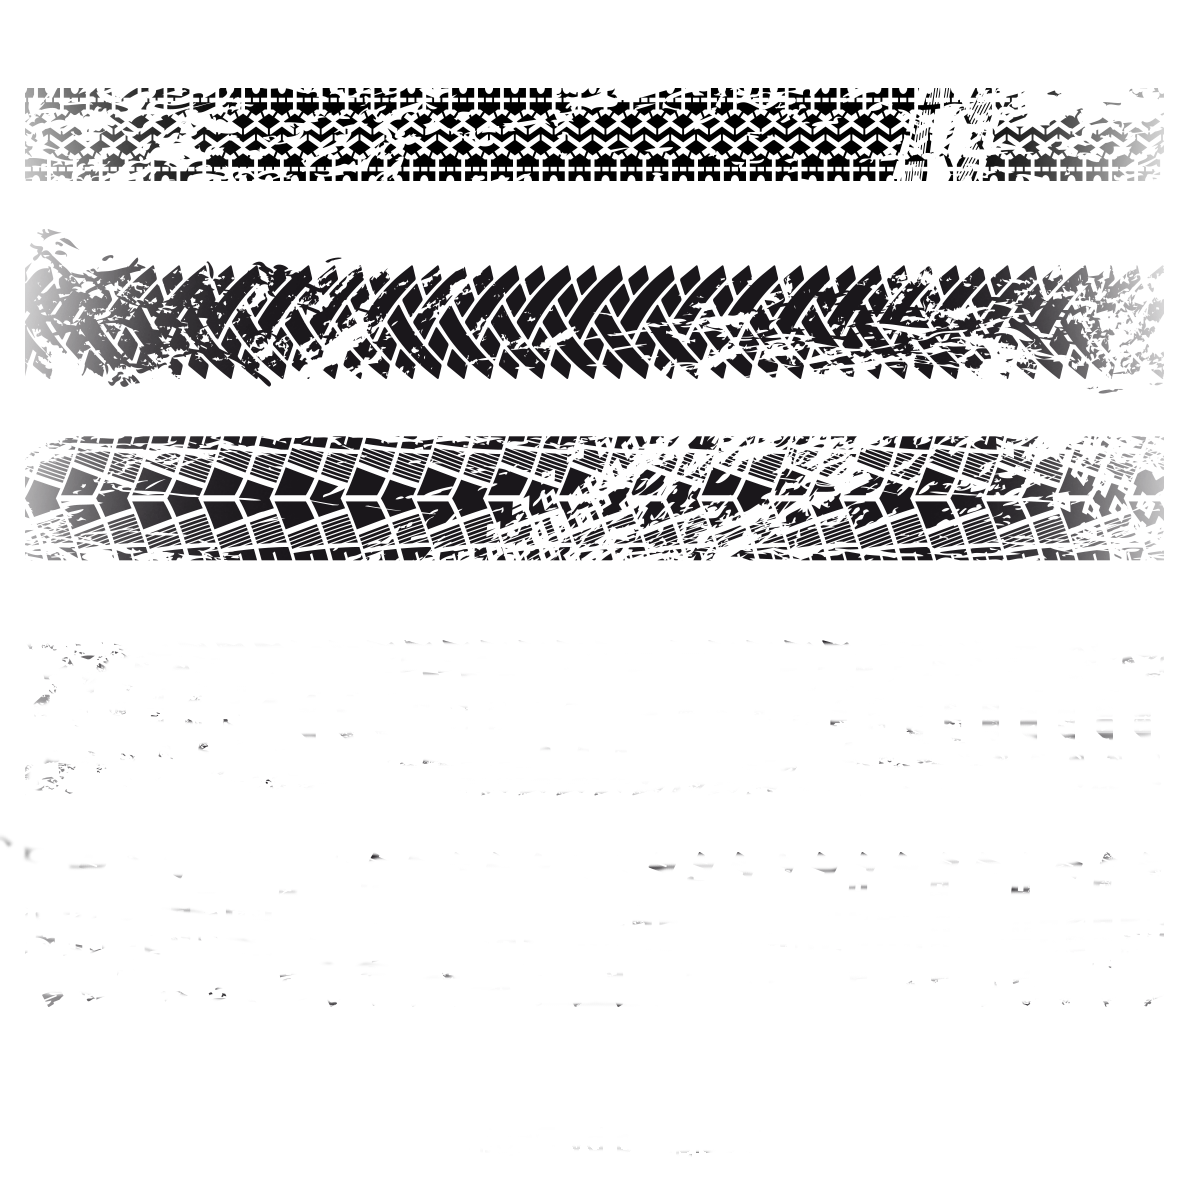
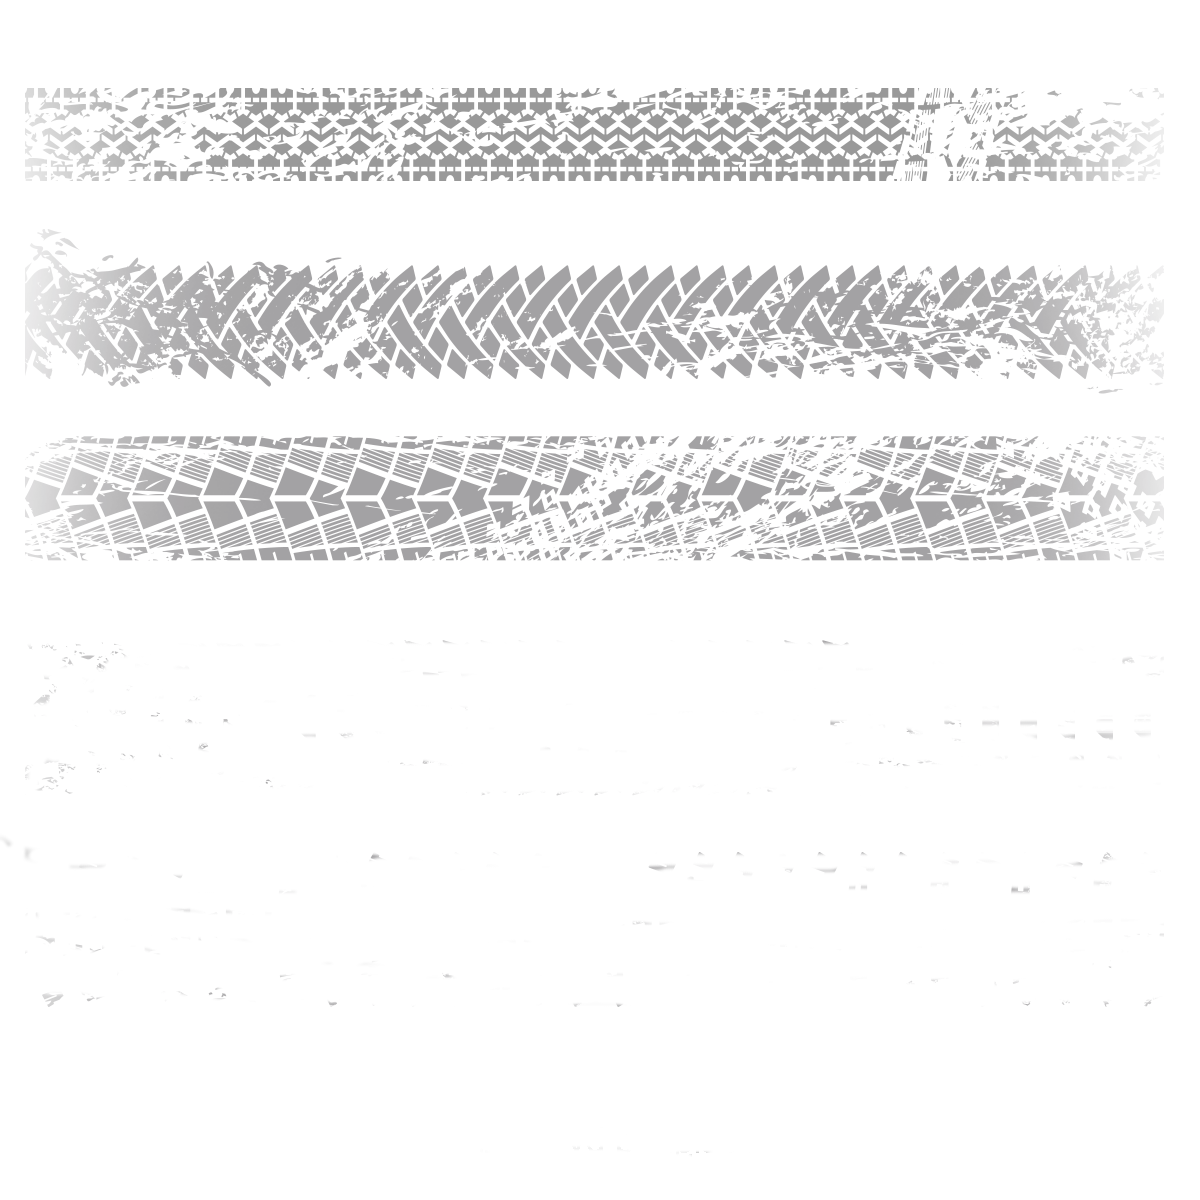
add card

Changed region(s): [[0.0, 0.185, 0.9867, 0.4933], [0.0, 0.0617, 0.9867, 0.1542]]

diff --git a/index.html b/index.html
@@ -22,9 +22,10 @@
         </ul>
       </div>
   </nav>  
+</div>
 <!-- termina navabar -->
 <!--empieza cuerpo de pagina -->
-<div id="carouselExampleIndicators" class="carousel slide" data-ride="carousel">
+<div id="carouselExampleIndicators" class="carousel slide " data-ride="carousel">
   <ol class="carousel-indicators">
     <li data-target="#carouselExampleIndicators" data-slide-to="0" class="active"></li>
     <li data-target="#carouselExampleIndicators" data-slide-to="1"></li>
@@ -50,12 +51,15 @@
     <span class="sr-only">Next</span>
   </a>
 </div>
-  <div class="bg-light ruedasFondo">
-   
-  </div>
+  <div class="ruedasFondo">
+    <div class="card" style="width: 18rem;">
+      <img class="card-img-top" src="images/card1.jpg" alt="Card image cap">
+      <div class="card-body">
+        <p class="card-text">Some quick example text to build on the card title and make up the bulk of the card's content.</p>
       </div>
     </div>
   </div>
+
 <script src="https://code.jquery.com/jquery-3.5.1.slim.min.js" integrity="sha384-DfXdz2htPH0lsSSs5nCTpuj/zy4C+OGpamoFVy38MVBnE+IbbVYUew+OrCXaRkfj" crossorigin="anonymous"></script>
 <script src="https://cdn.jsdelivr.net/npm/popper.js@1.16.0/dist/umd/popper.min.js" integrity="sha384-Q6E9RHvbIyZFJoft+2mJbHaEWldlvI9IOYy5n3zV9zzTtmI3UksdQRVvoxMfooAo" crossorigin="anonymous"></script>
 <script src="https://stackpath.bootstrapcdn.com/bootstrap/4.5.0/js/bootstrap.min.js" integrity="sha384-OgVRvuATP1z7JjHLkuOU7Xw704+h835Lr+6QL9UvYjZE3Ipu6Tp75j7Bh/kR0JKI" crossorigin="anonymous"></script>

diff --git a/css/custom.css b/css/custom.css
@@ -4,7 +4,6 @@
 }
 
 .ruedasFondo {
-    opacity: .4;
     background-image: url('../images/fondo2.png');
     height: 200px;
     background-size: cover;
